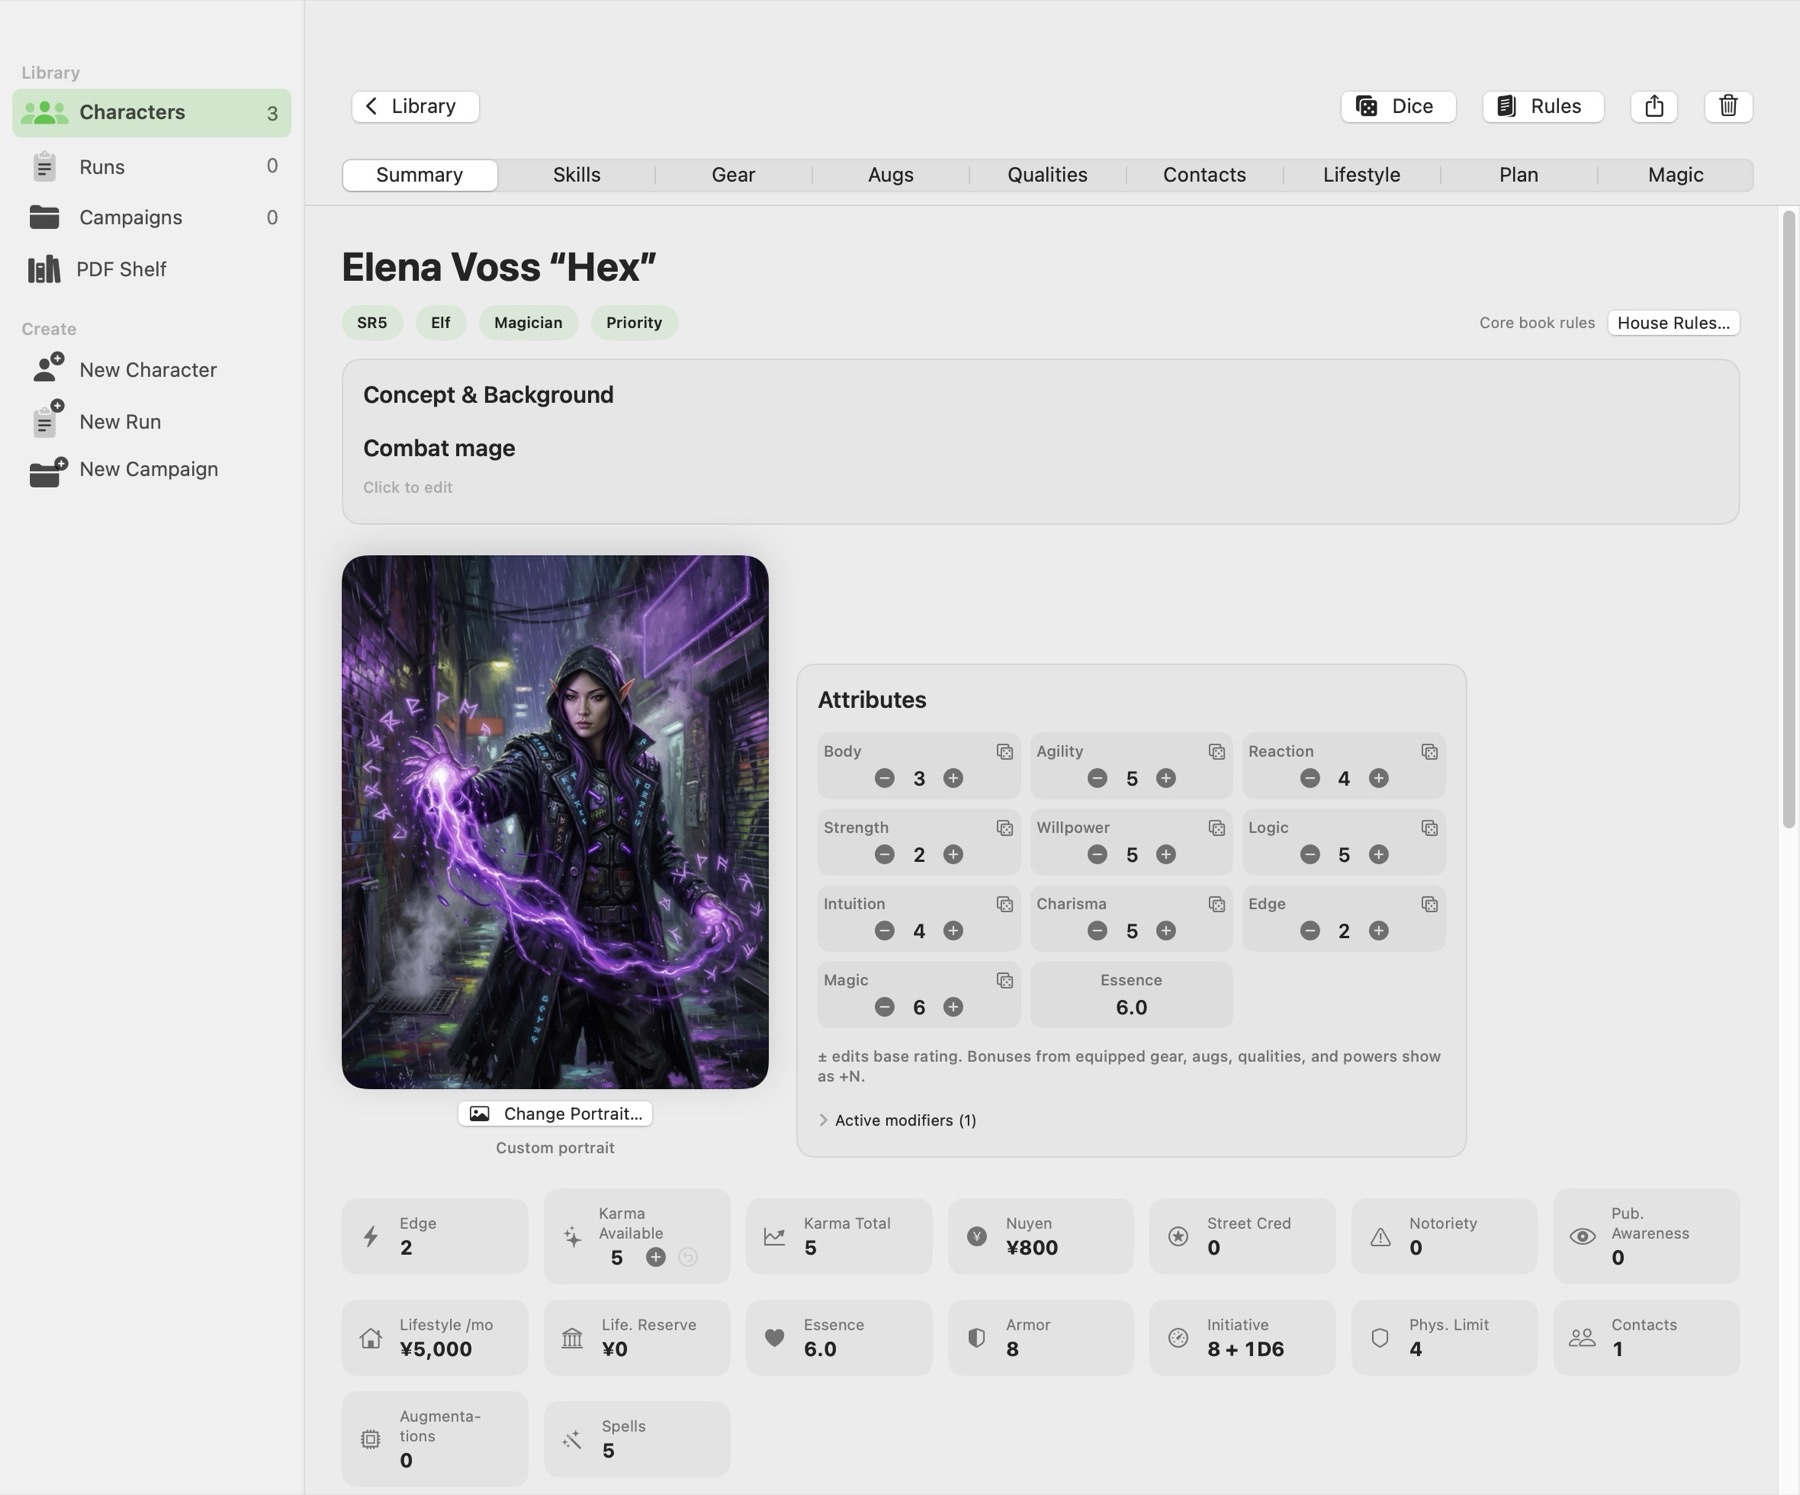
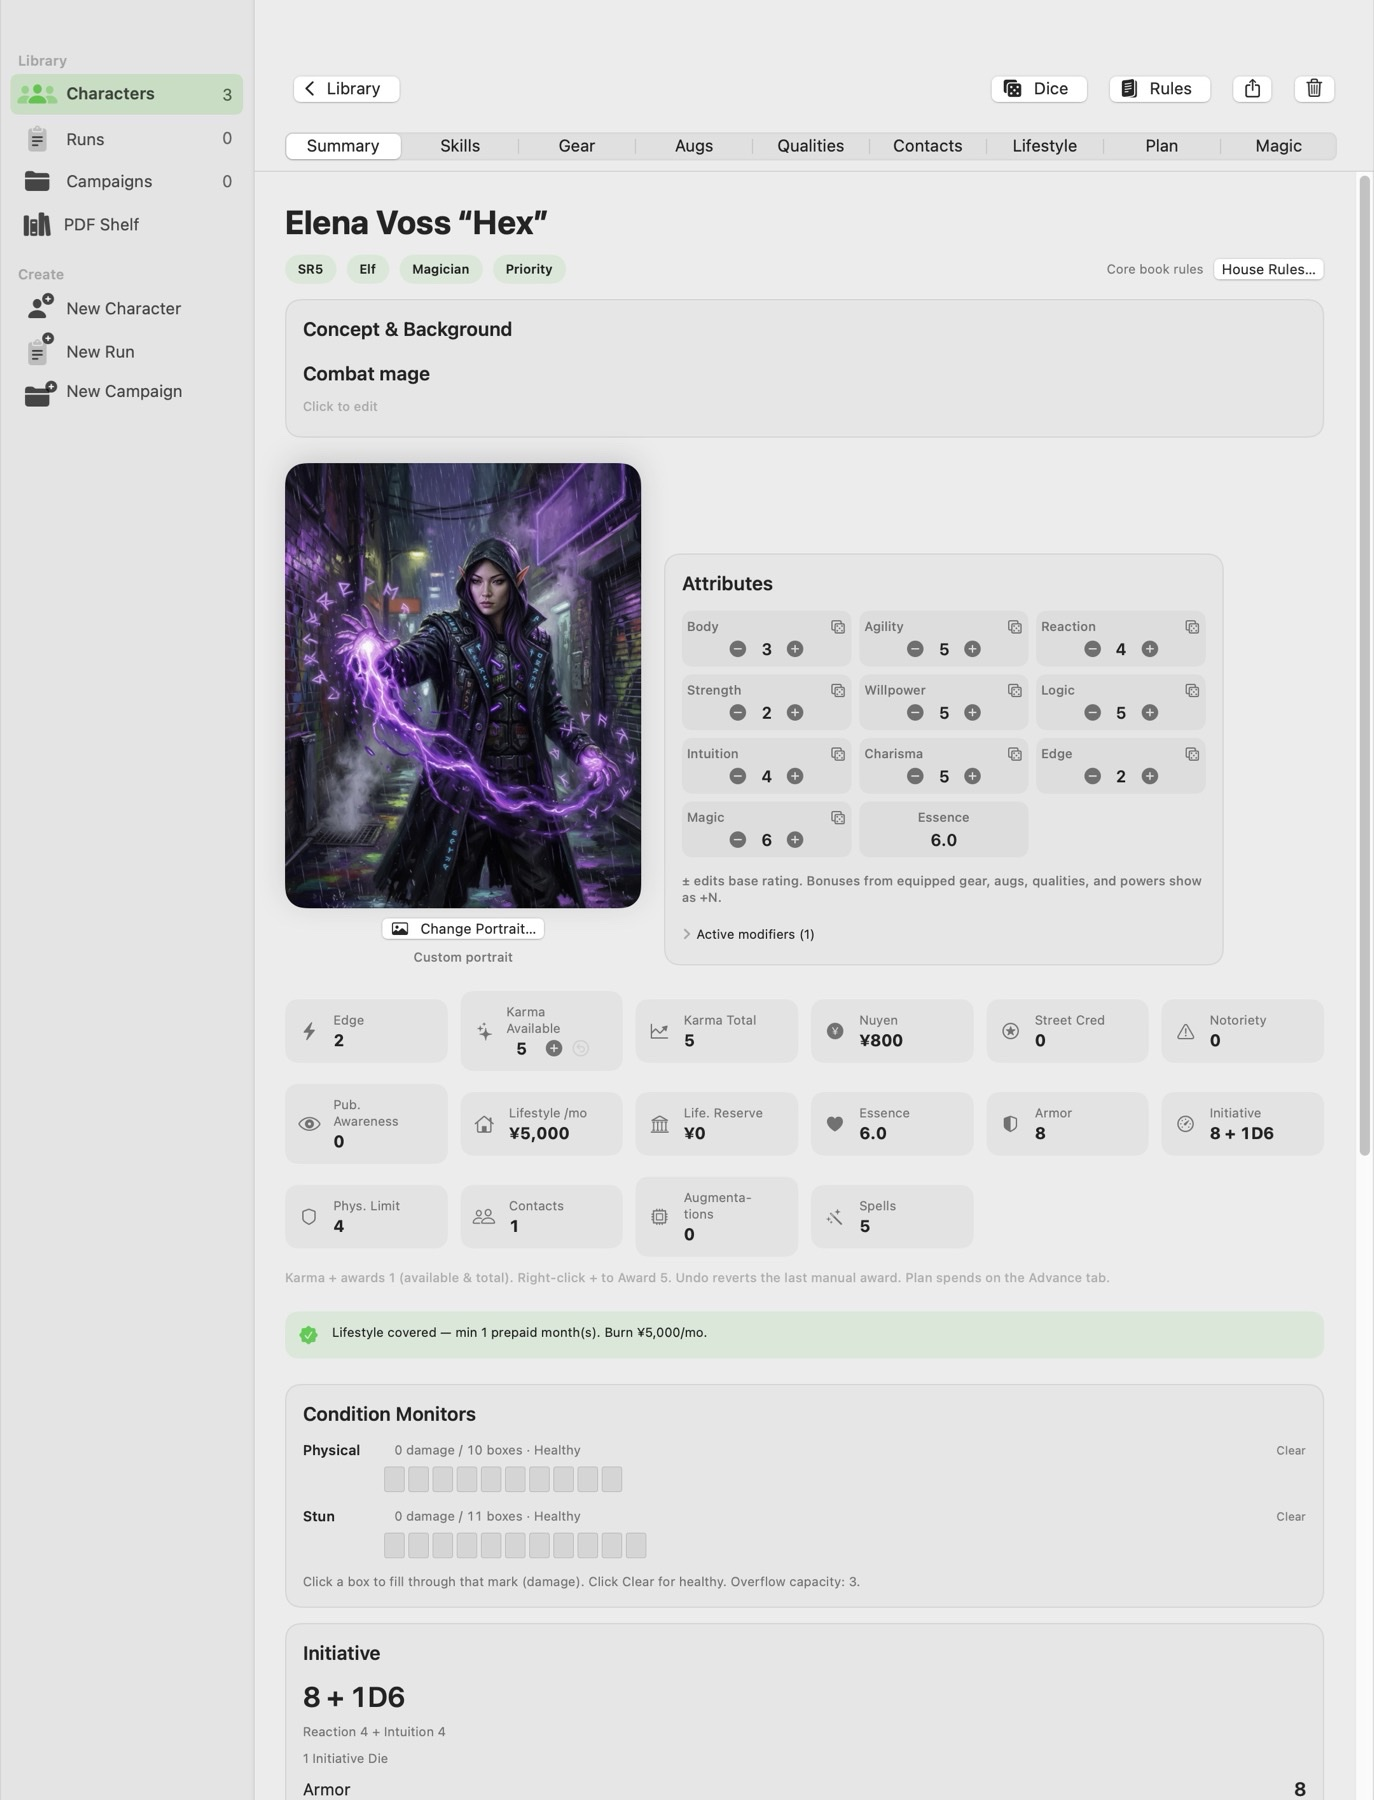
Taller play-sheet still for the README feature table.
Capture the Summary window at max screen height (1080×~1415 effective)
so lifestyle, condition, and initiative show below the resource chips.
Adds SHADOWDECK_CAPTURE_SHEET_ONLY for quick recaptures.

diff --git a/ShadowDeck/App/MarketingScreenshotExporter.swift b/ShadowDeck/App/MarketingScreenshotExporter.swift
@@ -70,9 +70,12 @@ enum MarketingScreenshotExporter {
     private static let libraryReturnSettleNanoseconds: UInt64 = 1_400_000_000
     /// Long-edge cap for GIF frames (aspect preserved; matches window proportions).
     private static let gifMaxLongEdge: CGFloat = 800
-    /// Content size for the play-sheet still (taller than default so Summary content
-    /// fills the README feature-table cell next to multi-line copy).
-    private static let characterSheetCaptureContentSize = NSSize(width: 1180, height: 980)
+    /// Content size for the play-sheet still. Much taller than the default deck so the
+    /// Summary (portrait → vitals → lifestyle → condition → skills) is visible without
+    /// a short landscape crop, and so the README feature-table cell next to multi-line
+    /// copy is roughly filled when the still is shown at ~420pt width.
+    /// Aspect ≈ 1:1.75 → after long-edge normalize to 1800px, display height ≈ 2× the old 980-tall still.
+    private static let characterSheetCaptureContentSize = NSSize(width: 1080, height: 1900)
     private struct TimedFrame {
         let image: NSImage
         let delaySeconds: Double
@@ -100,26 +103,40 @@ enum MarketingScreenshotExporter {
             fputs("Marketing capture: forced darkAqua appearance\n", stderr)
         }
 
+        // SHADOWDECK_CAPTURE_SHEET_ONLY=1 — rebuild just the tall play-sheet still (no GIFs).
+        let sheetOnly = ProcessInfo.processInfo.environment["SHADOWDECK_CAPTURE_SHEET_ONLY"] == "1"
+
         // —— Stills (no separate Run Library still — covered by mission GIF) ——
         try? await Task.sleep(nanoseconds: 900_000_000)
-        await captureStill(named: "01-splash", to: dir)
+        if !sheetOnly {
+            await captureStill(named: "01-splash", to: dir)
 
-        post(.library)
-        try? await Task.sleep(nanoseconds: 1_100_000_000)
-        await captureStill(named: "02-library", to: dir)
+            post(.library)
+            try? await Task.sleep(nanoseconds: 1_100_000_000)
+            await captureStill(named: "02-library", to: dir)
 
-        post(.generationRole)
-        try? await Task.sleep(nanoseconds: 1_200_000_000)
-        await captureStill(named: "03-generation-role", to: dir)
+            post(.generationRole)
+            try? await Task.sleep(nanoseconds: 1_200_000_000)
+            await captureStill(named: "03-generation-role", to: dir)
+        }
 
-        // Taller main window so the Summary play sheet fills README table height
-        // (feature-section layout grows with bullet text; short landscape crops leave whitespace).
-        resizePrimaryMainWindow(contentSize: characterSheetCaptureContentSize)
+        // Open Summary first (splash dismiss resets the deck to default size), then grow
+        // the window tall so the play sheet fills README table height.
         post(.characterSheet)
-        try? await Task.sleep(nanoseconds: 1_600_000_000)
+        try? await Task.sleep(nanoseconds: 900_000_000)
+        resizePrimaryMainWindow(contentSize: characterSheetCaptureContentSize)
+        try? await Task.sleep(nanoseconds: 1_400_000_000)
         await captureStill(named: "04-character-sheet", to: dir)
         // Restore default deck size for subsequent stills / GIFs.
         resizePrimaryMainWindow(contentSize: LaunchWindowGeometry.mainContentSize)
+
+        if sheetOnly {
+            post(.finished)
+            fputs("Marketing screenshots complete (sheet only).\n", stderr)
+            try? await Task.sleep(nanoseconds: 300_000_000)
+            NSApp.terminate(nil)
+            return
+        }
 
         post(.diceRoller)
         // Skills tab + open roller + perform roll + paint Edge chrome.

diff --git a/Screenshots/README.md b/Screenshots/README.md
@@ -23,7 +23,7 @@ Full UI stills ~1800px long edge; thumbs ~960px. GIFs are silent and looping; st
 
 **Layout:** The README keeps a **lean top marquee** (splash + character thumbs + mission/advance GIFs). Rules Reference and PDF Library stills live **next to their feature copy** so the page does not stack every screenshot at the top.
 
-**Play sheet still:** Capture uses a **taller main window** (`1180×980` content) for `04-character-sheet` so the Summary fills the README feature table cell next to multi-line copy. Other stills restore the default deck size.
+**Play sheet still:** Capture uses a **tall main window** (`1080×1900` content) for `04-character-sheet` so Summary content (through lifestyle / condition / skills previews) fills the README feature table cell next to multi-line copy. After long-edge normalize (~1800px) the still is roughly twice as tall as a default-deck capture when shown at 420pt width. Other stills restore the default deck size. `SHADOWDECK_CAPTURE_SHEET_ONLY=1` rebuilds only this still.
 
 **Dark appearance (optional):** `SHADOWDECK_CAPTURE_DARK=1` forces `darkAqua` for the capture process. The app’s normal UI follows the system appearance (`NSAppearance` nil on the main deck).
 
